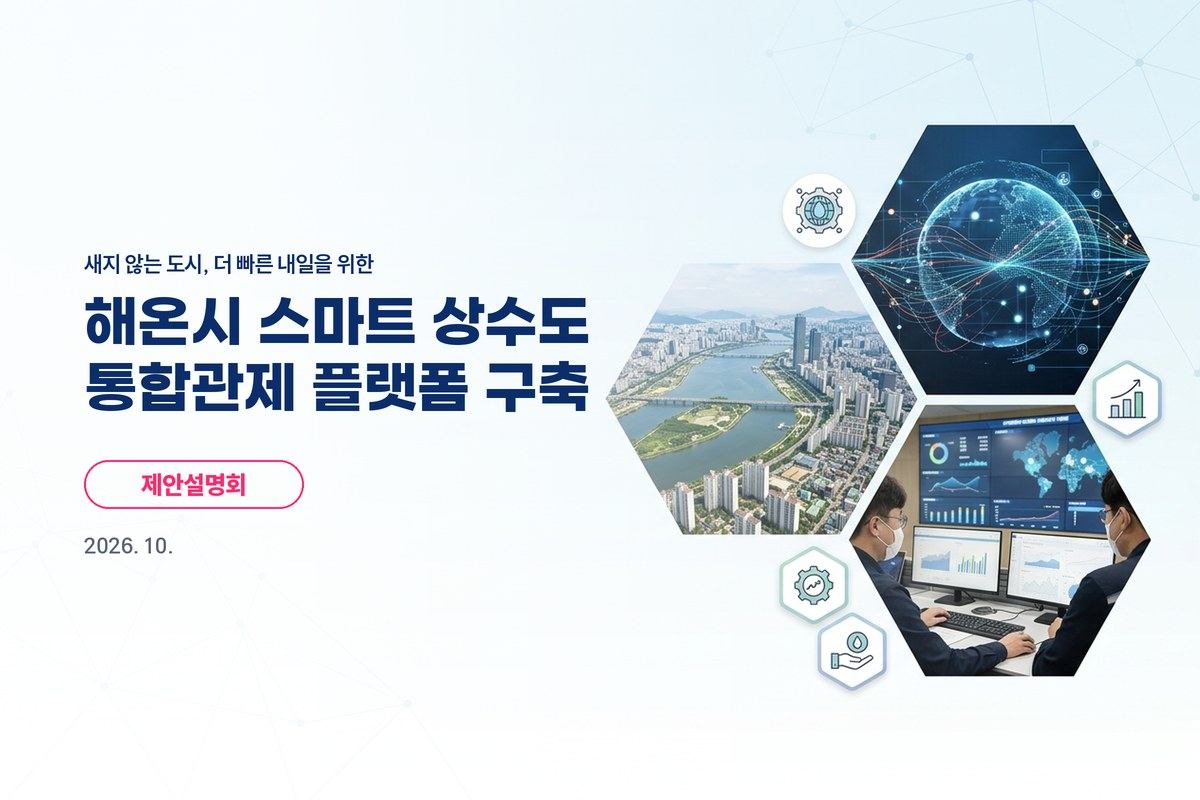
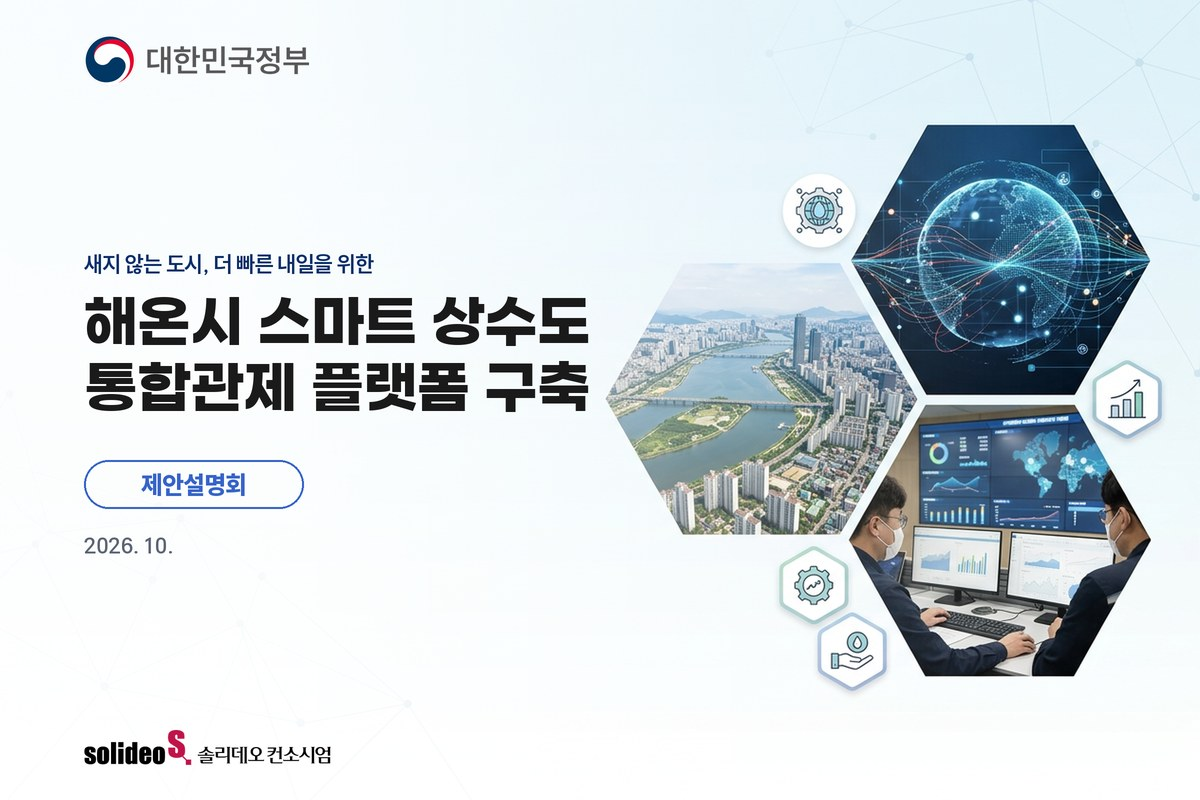
공개본 동기화 — 개발 저장소 0fc47a7

diff --git a/apps/web/app/modules/deck/legacy/DesignTypes.tsx b/apps/web/app/modules/deck/legacy/DesignTypes.tsx
@@ -7,7 +7,7 @@ import { cn, Modal, Ms } from "./ui";
 export type DesignType = { id: string; name: string; desc: string; fits: string; samples?: number };
 export const DESIGN_TYPES: DesignType[] = (data as { styles: DesignType[] }).styles.map((s) => ({ ...s, samples: s.samples ?? 4 }));
 export const typeName = (id?: string | null) => DESIGN_TYPES.find((t) => t.id === (id || "a"))?.name ?? "공공 제안 클레이";
-export const THUMB_V = 20;   // 샘플 그림을 바꾸면 올린다(브라우저 캐시)
+export const THUMB_V = 21;   // 샘플 그림을 바꾸면 올린다(브라우저 캐시)
 export const thumb = (id: string, n: number) => `${import.meta.env.BASE_URL}styles/${id}/${n}.jpg?v=${THUMB_V}`;
 const hide = (e: { target: EventTarget }) => { (e.target as HTMLImageElement).style.visibility = "hidden"; };
 

diff --git a/engine/frontdraw.py b/engine/frontdraw.py
@@ -8,6 +8,8 @@ import fontset
 
 W, H = 2400, 1600
 X0 = 168   # 표지·목차·간지 좌우 가이드 = 본문 틀 여백(56px)의 3배, 여섯 타입 공통(10-15 사용자 "컨텐츠보다 3배 정도, 모든 테마 통일")
+# 표지 글자색(10-16 사용자): 사업명 = 검정, 키메시지 = 타입 제목색(그동안 사업명에 쓰던 색), 제안설명회 뱃지 = 튀지 않는 파랑(분홍 강조색 X)
+COVER_TITLE, BADGE, BADGE_DARK = "1A1A1A", "3563C9", "5B86E5"
 
 
 def _hex(c, a=255):
@@ -447,11 +449,13 @@ def compose(kind, bg_png, texts, st, accent, title_font=None, body_font=None, lo
             block = hs + lh * len(lines) + H * 0.055 + H * 0.06 + H * 0.03 + H * 0.04
             y = top + (bottom - top - block) / 2
             y_top = y
+            name_c = title_c if dark else _hex(COVER_TITLE)   # 어두운 바탕은 흰 글 그대로
+            badge_c = _hex(BADGE_DARK if dark else BADGE)   # 표지 뱃지만 — 본문 강조색(accent)은 그대로
             if small:
                 d.text((X, y), small, font=f_s, fill=title_c)
                 y += hs
             for ln in lines:
-                _draw(d, X, y, ln, f_t, title_c, tr)
+                _draw(d, X, y, ln, f_t, name_c, tr)
                 y += lh
             y += H * 0.055 - (lh - size)   # 사업명 끝에서 1cm 아래
             tail = texts.get("tail") or "제안설명회"
@@ -464,13 +468,13 @@ def compose(kind, bg_png, texts, st, accent, title_font=None, body_font=None, lo
             bstyle = fd.get("badge", "pill")   # 타입마다 다르게(10-15 사용자 "다 똑같이 하지 말고") — pill 알약 · tab 각진 탭 · outline 테두리 · text 뱃지 없이 글자만
             if bstyle == "text":   # 뱃지 없이 — 강조색 굵은 글자 + 앞에 짧은 세로 막대
                 bar = max(4, int(ink_h * 0.16))
-                d.rectangle([X, y + pv * 0.5, X + bar, y + bh - pv * 0.5], fill=acc)
+                d.rectangle([X, y + pv * 0.5, X + bar, y + bh - pv * 0.5], fill=badge_c)
                 d.text((X + bar + ink_h * 0.55 - ib[0], y + pv - ib[1]), tail, font=f_tail, fill=title_c)   # 글자는 제목 색(어두운 바탕이면 흰색), 막대만 강조색
             elif bstyle == "outline":
-                d.rounded_rectangle([X, y, X + ink_w + ph * 2, y + bh], radius=bh / 2, outline=acc, width=max(3, int(ink_h * 0.09)))
-                d.text((X + ph - ib[0], y + pv - ib[1]), tail, font=f_tail, fill=acc)
+                d.rounded_rectangle([X, y, X + ink_w + ph * 2, y + bh], radius=bh / 2, outline=badge_c, width=max(3, int(ink_h * 0.09)))
+                d.text((X + ph - ib[0], y + pv - ib[1]), tail, font=f_tail, fill=badge_c)
             else:
-                d.rounded_rectangle([X, y, X + ink_w + ph * 2, y + bh], radius=(bh / 2 if bstyle == "pill" else max(4, int(bh * 0.12))), fill=acc)
+                d.rounded_rectangle([X, y, X + ink_w + ph * 2, y + bh], radius=(bh / 2 if bstyle == "pill" else max(4, int(bh * 0.12))), fill=badge_c)
                 d.text((X + ph - ib[0], y + pv - ib[1]), tail, font=f_tail, fill=(255, 255, 255, 255))
             y += bh + H * 0.03
             d.text((X, y), texts.get("date", ""), font=f_date, fill=sub_c)

diff --git a/engine/design.py b/engine/design.py
@@ -667,7 +667,7 @@ def compose_frame(job, body_png_path, s, project=""):
     # 바닥 — 얇은 선, 왼쪽 발주기관 로고, 가운데 쪽번호, 오른쪽 제안사 로고
     y0 = F["h"] - F["foot"]
     d.line([(F["pad"], y0), (F["w"] - F["pad"], y0)], fill=hx(fr.get("foot_line", "E5E7EB")), width=2)
-    lh = 52
+    lh = 42   # 바닥 로고는 작게(10-16 사용자 "크기는 너무 크지 않게") — 52 에서 줄임
     for which, right in (("client", False), ("vendor", True)):
         lg = brand_logo(job, which)
         if lg is None:
@@ -2846,9 +2846,9 @@ def front_logo_zones(st, kind="cover"):
     sid = str((st or {}).get("front_set") or "")
     tset = next((x for x in (front_templates().get("sets") or []) if x.get("id") == sid), None) or {}
     lg = list((tset.get("logos") or {}).get(kind) or (["tl", "bl"] if kind == "cover" else ["bl", "br"]))
-    if kind == "cover":   # 표지는 타입과 상관없이 발주기관 왼쪽 위 · 주관사 왼쪽 아래(사용자 10-15) — 한 벌 설정이 거꾸로(헥사곤)거나 오른쪽 아래(네이비)면 그림 자리와 부딪혔다
-        return "tl", "bl"
-    return lg[0], lg[1]
+    # 표지·목차·간지 모두 타입과 상관없이 발주기관 왼쪽 위 · 제안사 왼쪽 아래(사용자 10-15 표지, 10-16 목차·간지까지)
+    # — 한 벌 설정(lg)은 남겨 두되 쓰지 않는다. 타입마다 자리가 달라 로고가 빠지거나 그림과 부딪혔다
+    return "tl", "bl"
 
 
 def front_specs(plan, opts, title, project):

diff --git a/engine/frame.py b/engine/frame.py
@@ -14,7 +14,7 @@ import fontset
 sys.stdout.reconfigure(encoding="utf-8")
 IN = 914400
 A = "{http://schemas.openxmlformats.org/drawingml/2006/main}"
-HEAD, FOOT, PAD, LOGO_H = 0.70, 0.45, 0.25, 0.24
+HEAD, FOOT, PAD, LOGO_H = 0.70, 0.45, 0.25, 0.19   # 바닥 로고는 작게(10-16 사용자) — 0.24 에서 줄임
 
 
 def rgb(h):
